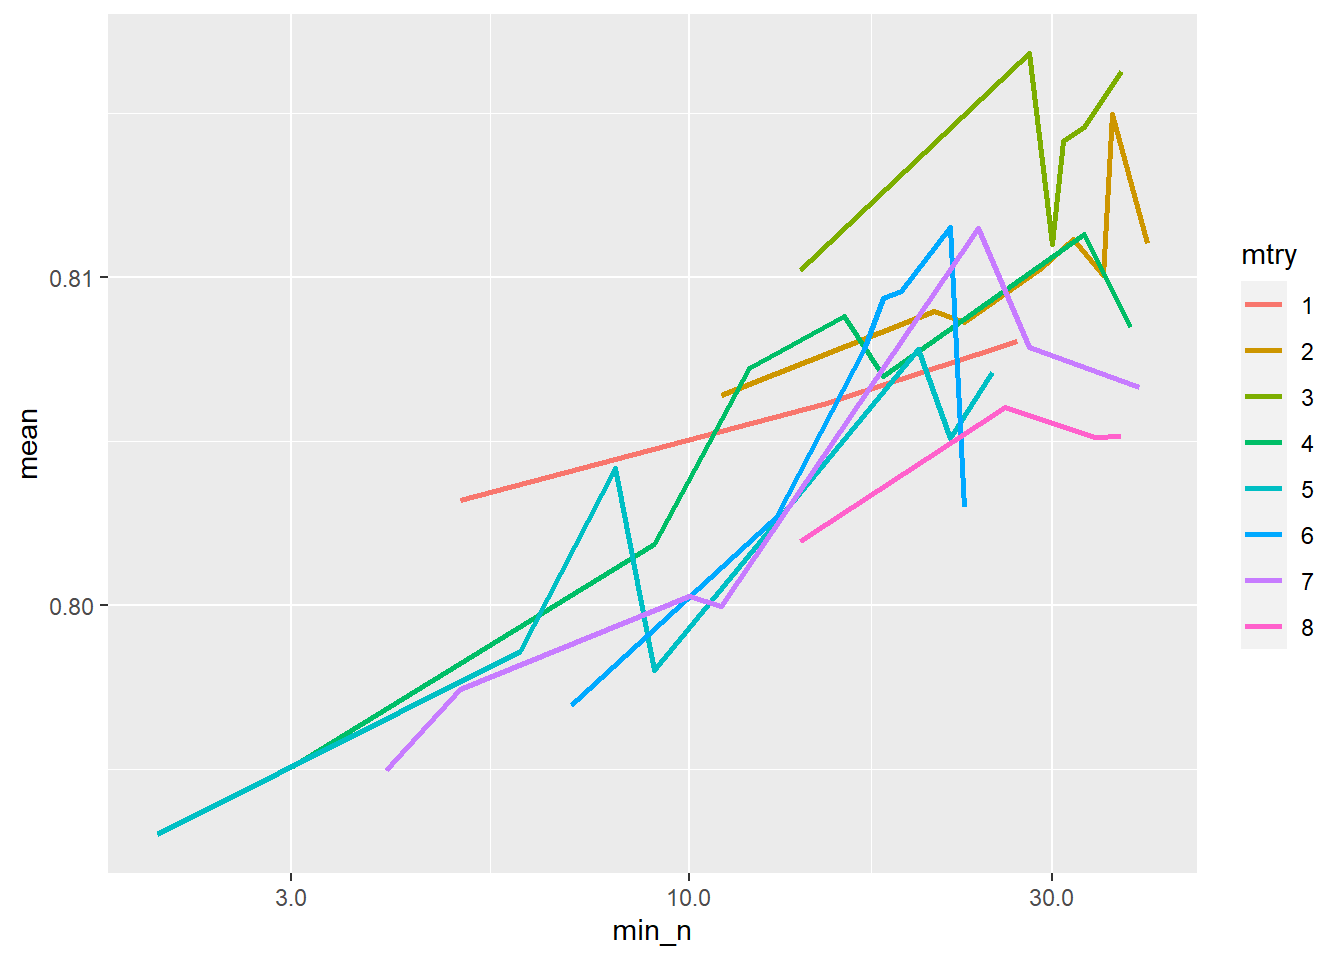
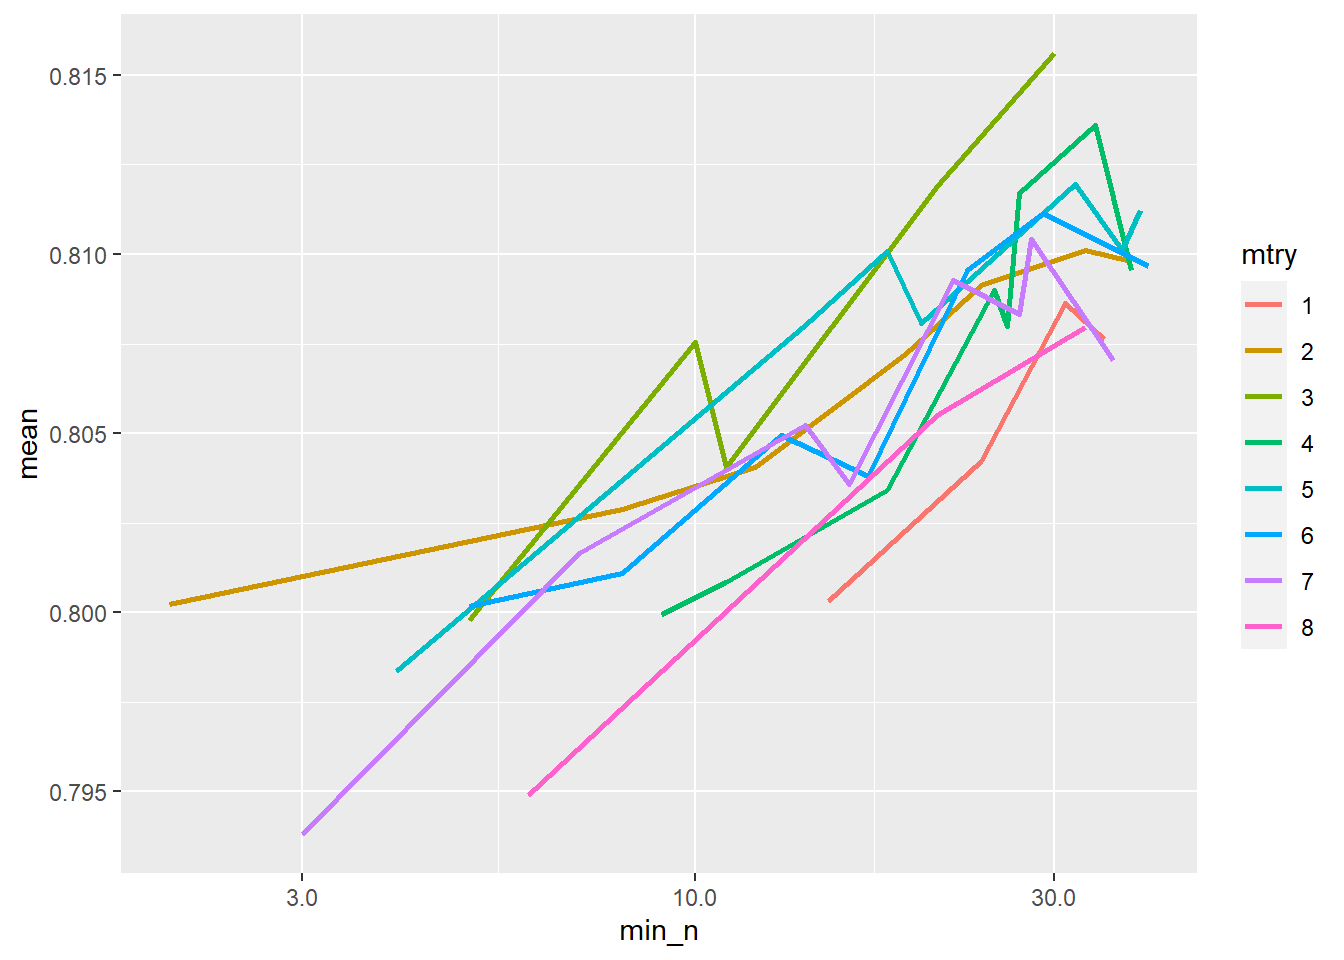
seed

diff --git a/content/post/2020-05-14-tidymodel.html b/content/post/2020-05-14-tidymodel.html
@@ -150,18 +150,18 @@ summary(gen_recipe)</code></pre>
   add_model(lr_mod) %&gt;% 
   add_recipe(gen_recipe)
 lr_wflow</code></pre>
-<pre><code>## == Workflow ======================================
+<pre><code>## == Workflow ==============================================================================================
 ## Preprocessor: Recipe
 ## Model: logistic_reg()
 ## 
-## -- Preprocessor ----------------------------------
+## -- Preprocessor ------------------------------------------------------------------------------------------
 ## 3 Recipe Steps
 ## 
 ## * step_dummy()
 ## * step_zv()
 ## * step_normalize()
 ## 
-## -- Model -----------------------------------------
+## -- Model -------------------------------------------------------------------------------------------------
 ## Logistic Regression Model Specification (classification)
 ## 
 ## Computational engine: glm</code></pre>
@@ -348,8 +348,9 @@ folds</code></pre>
 </div>
 <div id="step-5-調整參數" class="section level2">
 <h2>Step 5 調整參數</h2>
-<p>完成分割後，可將之前的建模流程串接至<code>tune_grid()</code>函數，這個函數可以設定參數調整的方法，首先是調整要用的<strong>參數調整組資料</strong><code>resamples = folds</code>，要測試幾組參數<code>grid = 50</code>，測試時要用什麼效能評估方式，這邊設定為Area under the ROC curve <code>metrics = metric_set(roc_auc)</code>。因為要重複訓練測試多次，因此這程式碼執行會需要一些時間。</p>
-<pre class="r"><code>rf_res &lt;- 
+<p>完成分割後，可將之前的建模流程串接至<code>tune_grid()</code>函數，這個函數可以設定參數調整的方法，首先是調整要用的<strong>參數調整組資料</strong><code>resamples = folds</code>，要測試幾組參數<code>grid = 50</code>，測試時要用什麼效能評估方式，這邊設定為Area under the ROC curve <code>metrics = metric_set(roc_auc)</code>。另外參數的產生也有隨機的成分，需要<code>set.seed()</code>。因為要重複訓練測試多次，因此這程式碼執行會需要一些時間。</p>
+<pre class="r"><code>set.seed(345)
+rf_res &lt;- 
   rf_wflow %&gt;% 
   tune_grid(
     resamples = folds,
@@ -363,16 +364,16 @@ folds</code></pre>
 <pre><code>## # A tibble: 49 x 7
 ##     mtry min_n .metric .estimator  mean     n std_err
 ##    &lt;int&gt; &lt;int&gt; &lt;chr&gt;   &lt;chr&gt;      &lt;dbl&gt; &lt;int&gt;   &lt;dbl&gt;
-##  1     1     5 roc_auc binary     0.803    10  0.0253
-##  2     1    15 roc_auc binary     0.806    10  0.0238
-##  3     1    27 roc_auc binary     0.808    10  0.0248
-##  4     2    11 roc_auc binary     0.806    10  0.0245
-##  5     2    21 roc_auc binary     0.809    10  0.0226
-##  6     2    23 roc_auc binary     0.809    10  0.0233
-##  7     2    29 roc_auc binary     0.810    10  0.0230
-##  8     2    32 roc_auc binary     0.811    10  0.0249
-##  9     2    35 roc_auc binary     0.810    10  0.0242
-## 10     2    36 roc_auc binary     0.815    10  0.0239
+##  1     1    15 roc_auc binary     0.800    10  0.0246
+##  2     1    24 roc_auc binary     0.804    10  0.0270
+##  3     1    31 roc_auc binary     0.809    10  0.0258
+##  4     1    35 roc_auc binary     0.808    10  0.0258
+##  5     2     2 roc_auc binary     0.800    10  0.0231
+##  6     2     8 roc_auc binary     0.803    10  0.0229
+##  7     2    12 roc_auc binary     0.804    10  0.0224
+##  8     2    19 roc_auc binary     0.807    10  0.0228
+##  9     2    24 roc_auc binary     0.809    10  0.0228
+## 10     2    33 roc_auc binary     0.810    10  0.0243
 ## # ... with 39 more rows</code></pre>
 <p>也可畫個圖呈現參數調整對效能的影響，由圖可知在這個範例中min_n越大效能越好</p>
 <pre class="r"><code>rf_res %&gt;%
@@ -388,11 +389,11 @@ folds</code></pre>
 <pre><code>## # A tibble: 5 x 7
 ##    mtry min_n .metric .estimator  mean     n std_err
 ##   &lt;int&gt; &lt;int&gt; &lt;chr&gt;   &lt;chr&gt;      &lt;dbl&gt; &lt;int&gt;   &lt;dbl&gt;
-## 1     3    28 roc_auc binary     0.817    10  0.0207
-## 2     3    37 roc_auc binary     0.816    10  0.0223
-## 3     2    36 roc_auc binary     0.815    10  0.0239
-## 4     3    33 roc_auc binary     0.815    10  0.0238
-## 5     3    31 roc_auc binary     0.814    10  0.0215</code></pre>
+## 1     3    30 roc_auc binary     0.816    10  0.0223
+## 2     4    34 roc_auc binary     0.814    10  0.0227
+## 3     5    32 roc_auc binary     0.812    10  0.0208
+## 4     3    21 roc_auc binary     0.812    10  0.0205
+## 5     4    27 roc_auc binary     0.812    10  0.0222</code></pre>
 </div>
 <div id="step-6-使用最佳參數與訓練組資料建立最終模型" class="section level2">
 <h2>Step 6 使用最佳參數與訓練組資料建立最終模型</h2>
@@ -403,31 +404,31 @@ best_rf</code></pre>
 <pre><code>## # A tibble: 1 x 2
 ##    mtry min_n
 ##   &lt;int&gt; &lt;int&gt;
-## 1     3    28</code></pre>
+## 1     3    30</code></pre>
 <p>為了將參數節合至原有的建模流程，可用<code>finalize_workflow()</code>函數輸入剛剛選出的最佳參數<code>best_rf</code>，建立一個<strong>最終建模流程</strong></p>
 <pre class="r"><code>final_wflow &lt;- 
   rf_wflow %&gt;% 
   finalize_workflow(best_rf)
 
 final_wflow</code></pre>
-<pre><code>## == Workflow ======================================
+<pre><code>## == Workflow ==============================================================================================
 ## Preprocessor: Recipe
 ## Model: rand_forest()
 ## 
-## -- Preprocessor ----------------------------------
+## -- Preprocessor ------------------------------------------------------------------------------------------
 ## 3 Recipe Steps
 ## 
 ## * step_dummy()
 ## * step_zv()
 ## * step_normalize()
 ## 
-## -- Model -----------------------------------------
+## -- Model -------------------------------------------------------------------------------------------------
 ## Random Forest Model Specification (classification)
 ## 
 ## Main Arguments:
 ##   mtry = 3
 ##   trees = 1000
-##   min_n = 28
+##   min_n = 30
 ## 
 ## Computational engine: ranger</code></pre>
 <p><strong>最終建模流程</strong>建立後，即可用<code>fit()</code>建模，注意這邊用的是完整的訓練資料<code>DM_train</code></p>
@@ -436,32 +437,32 @@ final_wflow</code></pre>
   fit(data = DM_train) 
 
 final_rf_model</code></pre>
-<pre><code>## == Workflow [trained] ============================
+<pre><code>## == Workflow [trained] ====================================================================================
 ## Preprocessor: Recipe
 ## Model: rand_forest()
 ## 
-## -- Preprocessor ----------------------------------
+## -- Preprocessor ------------------------------------------------------------------------------------------
 ## 3 Recipe Steps
 ## 
 ## * step_dummy()
 ## * step_zv()
 ## * step_normalize()
 ## 
-## -- Model -----------------------------------------
+## -- Model -------------------------------------------------------------------------------------------------
 ## Ranger result
 ## 
 ## Call:
-##  ranger::ranger(formula = formula, data = data, mtry = ~3L, num.trees = ~1000,      min.node.size = ~28L, num.threads = 1, verbose = FALSE, seed = sample.int(10^5,          1), probability = TRUE) 
+##  ranger::ranger(formula = formula, data = data, mtry = ~3L, num.trees = ~1000,      min.node.size = ~30L, num.threads = 1, verbose = FALSE, seed = sample.int(10^5,          1), probability = TRUE) 
 ## 
 ## Type:                             Probability estimation 
 ## Number of trees:                  1000 
 ## Sample size:                      295 
 ## Number of independent variables:  8 
 ## Mtry:                             3 
-## Target node size:                 28 
+## Target node size:                 30 
 ## Variable importance mode:         none 
 ## Splitrule:                        gini 
-## OOB prediction error (Brier s.):  0.1561583</code></pre>
+## OOB prediction error (Brier s.):  0.1573813</code></pre>
 </div>
 <div id="step-7-用測試組資料驗證最終模型效能" class="section level2">
 <h2>Step 7 用測試組資料驗證最終模型效能</h2>
@@ -519,16 +520,16 @@ rf_pred</code></pre>
 <pre><code>## # A tibble: 97 x 3
 ##    .pred_neg .pred_pos diabetes
 ##        &lt;dbl&gt;     &lt;dbl&gt; &lt;fct&gt;   
-##  1     0.377    0.623  pos     
-##  2     0.507    0.493  pos     
-##  3     0.657    0.343  neg     
-##  4     0.153    0.847  pos     
-##  5     0.102    0.898  pos     
-##  6     0.181    0.819  pos     
-##  7     0.867    0.133  neg     
-##  8     0.953    0.0471 neg     
-##  9     0.797    0.203  neg     
-## 10     0.634    0.366  neg     
+##  1     0.361    0.639  pos     
+##  2     0.526    0.474  pos     
+##  3     0.662    0.338  neg     
+##  4     0.177    0.823  pos     
+##  5     0.130    0.870  pos     
+##  6     0.191    0.809  pos     
+##  7     0.860    0.140  neg     
+##  8     0.956    0.0441 neg     
+##  9     0.793    0.207  neg     
+## 10     0.638    0.362  neg     
 ## # ... with 87 more rows</code></pre>
 <p>得到各組預測值後，可用<code>roc_curve()</code>畫ROC curve</p>
 <pre class="r"><code>rf_pred %&gt;% 

diff --git a/public/post/tidymodel/index.html b/public/post/tidymodel/index.html
@@ -224,18 +224,18 @@ summary(gen_recipe)</code></pre>
   add_model(lr_mod) %&gt;% 
   add_recipe(gen_recipe)
 lr_wflow</code></pre>
-<pre><code>## == Workflow ======================================
+<pre><code>## == Workflow ==============================================================================================
 ## Preprocessor: Recipe
 ## Model: logistic_reg()
 ## 
-## -- Preprocessor ----------------------------------
+## -- Preprocessor ------------------------------------------------------------------------------------------
 ## 3 Recipe Steps
 ## 
 ## * step_dummy()
 ## * step_zv()
 ## * step_normalize()
 ## 
-## -- Model -----------------------------------------
+## -- Model -------------------------------------------------------------------------------------------------
 ## Logistic Regression Model Specification (classification)
 ## 
 ## Computational engine: glm</code></pre>
@@ -422,8 +422,9 @@ folds</code></pre>
 </div>
 <div id="step-5-調整參數" class="section level2">
 <h2>Step 5 調整參數</h2>
-<p>完成分割後，可將之前的建模流程串接至<code>tune_grid()</code>函數，這個函數可以設定參數調整的方法，首先是調整要用的<strong>參數調整組資料</strong><code>resamples = folds</code>，要測試幾組參數<code>grid = 50</code>，測試時要用什麼效能評估方式，這邊設定為Area under the ROC curve <code>metrics = metric_set(roc_auc)</code>。因為要重複訓練測試多次，因此這程式碼執行會需要一些時間。</p>
-<pre class="r"><code>rf_res &lt;- 
+<p>完成分割後，可將之前的建模流程串接至<code>tune_grid()</code>函數，這個函數可以設定參數調整的方法，首先是調整要用的<strong>參數調整組資料</strong><code>resamples = folds</code>，要測試幾組參數<code>grid = 50</code>，測試時要用什麼效能評估方式，這邊設定為Area under the ROC curve <code>metrics = metric_set(roc_auc)</code>。另外參數的產生也有隨機的成分，需要<code>set.seed()</code>。因為要重複訓練測試多次，因此這程式碼執行會需要一些時間。</p>
+<pre class="r"><code>set.seed(345)
+rf_res &lt;- 
   rf_wflow %&gt;% 
   tune_grid(
     resamples = folds,
@@ -437,16 +438,16 @@ folds</code></pre>
 <pre><code>## # A tibble: 49 x 7
 ##     mtry min_n .metric .estimator  mean     n std_err
 ##    &lt;int&gt; &lt;int&gt; &lt;chr&gt;   &lt;chr&gt;      &lt;dbl&gt; &lt;int&gt;   &lt;dbl&gt;
-##  1     1     5 roc_auc binary     0.803    10  0.0253
-##  2     1    15 roc_auc binary     0.806    10  0.0238
-##  3     1    27 roc_auc binary     0.808    10  0.0248
-##  4     2    11 roc_auc binary     0.806    10  0.0245
-##  5     2    21 roc_auc binary     0.809    10  0.0226
-##  6     2    23 roc_auc binary     0.809    10  0.0233
-##  7     2    29 roc_auc binary     0.810    10  0.0230
-##  8     2    32 roc_auc binary     0.811    10  0.0249
-##  9     2    35 roc_auc binary     0.810    10  0.0242
-## 10     2    36 roc_auc binary     0.815    10  0.0239
+##  1     1    15 roc_auc binary     0.800    10  0.0246
+##  2     1    24 roc_auc binary     0.804    10  0.0270
+##  3     1    31 roc_auc binary     0.809    10  0.0258
+##  4     1    35 roc_auc binary     0.808    10  0.0258
+##  5     2     2 roc_auc binary     0.800    10  0.0231
+##  6     2     8 roc_auc binary     0.803    10  0.0229
+##  7     2    12 roc_auc binary     0.804    10  0.0224
+##  8     2    19 roc_auc binary     0.807    10  0.0228
+##  9     2    24 roc_auc binary     0.809    10  0.0228
+## 10     2    33 roc_auc binary     0.810    10  0.0243
 ## # ... with 39 more rows</code></pre>
 <p>也可畫個圖呈現參數調整對效能的影響，由圖可知在這個範例中min_n越大效能越好</p>
 <pre class="r"><code>rf_res %&gt;%
@@ -462,11 +463,11 @@ folds</code></pre>
 <pre><code>## # A tibble: 5 x 7
 ##    mtry min_n .metric .estimator  mean     n std_err
 ##   &lt;int&gt; &lt;int&gt; &lt;chr&gt;   &lt;chr&gt;      &lt;dbl&gt; &lt;int&gt;   &lt;dbl&gt;
-## 1     3    28 roc_auc binary     0.817    10  0.0207
-## 2     3    37 roc_auc binary     0.816    10  0.0223
-## 3     2    36 roc_auc binary     0.815    10  0.0239
-## 4     3    33 roc_auc binary     0.815    10  0.0238
-## 5     3    31 roc_auc binary     0.814    10  0.0215</code></pre>
+## 1     3    30 roc_auc binary     0.816    10  0.0223
+## 2     4    34 roc_auc binary     0.814    10  0.0227
+## 3     5    32 roc_auc binary     0.812    10  0.0208
+## 4     3    21 roc_auc binary     0.812    10  0.0205
+## 5     4    27 roc_auc binary     0.812    10  0.0222</code></pre>
 </div>
 <div id="step-6-使用最佳參數與訓練組資料建立最終模型" class="section level2">
 <h2>Step 6 使用最佳參數與訓練組資料建立最終模型</h2>
@@ -477,31 +478,31 @@ best_rf</code></pre>
 <pre><code>## # A tibble: 1 x 2
 ##    mtry min_n
 ##   &lt;int&gt; &lt;int&gt;
-## 1     3    28</code></pre>
+## 1     3    30</code></pre>
 <p>為了將參數節合至原有的建模流程，可用<code>finalize_workflow()</code>函數輸入剛剛選出的最佳參數<code>best_rf</code>，建立一個<strong>最終建模流程</strong></p>
 <pre class="r"><code>final_wflow &lt;- 
   rf_wflow %&gt;% 
   finalize_workflow(best_rf)
 
 final_wflow</code></pre>
-<pre><code>## == Workflow ======================================
+<pre><code>## == Workflow ==============================================================================================
 ## Preprocessor: Recipe
 ## Model: rand_forest()
 ## 
-## -- Preprocessor ----------------------------------
+## -- Preprocessor ------------------------------------------------------------------------------------------
 ## 3 Recipe Steps
 ## 
 ## * step_dummy()
 ## * step_zv()
 ## * step_normalize()
 ## 
-## -- Model -----------------------------------------
+## -- Model -------------------------------------------------------------------------------------------------
 ## Random Forest Model Specification (classification)
 ## 
 ## Main Arguments:
 ##   mtry = 3
 ##   trees = 1000
-##   min_n = 28
+##   min_n = 30
 ## 
 ## Computational engine: ranger</code></pre>
 <p><strong>最終建模流程</strong>建立後，即可用<code>fit()</code>建模，注意這邊用的是完整的訓練資料<code>DM_train</code></p>
@@ -510,32 +511,32 @@ final_wflow</code></pre>
   fit(data = DM_train) 
 
 final_rf_model</code></pre>
-<pre><code>## == Workflow [trained] ============================
+<pre><code>## == Workflow [trained] ====================================================================================
 ## Preprocessor: Recipe
 ## Model: rand_forest()
 ## 
-## -- Preprocessor ----------------------------------
+## -- Preprocessor ------------------------------------------------------------------------------------------
 ## 3 Recipe Steps
 ## 
 ## * step_dummy()
 ## * step_zv()
 ## * step_normalize()
 ## 
-## -- Model -----------------------------------------
+## -- Model -------------------------------------------------------------------------------------------------
 ## Ranger result
 ## 
 ## Call:
-##  ranger::ranger(formula = formula, data = data, mtry = ~3L, num.trees = ~1000,      min.node.size = ~28L, num.threads = 1, verbose = FALSE, seed = sample.int(10^5,          1), probability = TRUE) 
+##  ranger::ranger(formula = formula, data = data, mtry = ~3L, num.trees = ~1000,      min.node.size = ~30L, num.threads = 1, verbose = FALSE, seed = sample.int(10^5,          1), probability = TRUE) 
 ## 
 ## Type:                             Probability estimation 
 ## Number of trees:                  1000 
 ## Sample size:                      295 
 ## Number of independent variables:  8 
 ## Mtry:                             3 
-## Target node size:                 28 
+## Target node size:                 30 
 ## Variable importance mode:         none 
 ## Splitrule:                        gini 
-## OOB prediction error (Brier s.):  0.1561583</code></pre>
+## OOB prediction error (Brier s.):  0.1573813</code></pre>
 </div>
 <div id="step-7-用測試組資料驗證最終模型效能" class="section level2">
 <h2>Step 7 用測試組資料驗證最終模型效能</h2>
@@ -593,16 +594,16 @@ rf_pred</code></pre>
 <pre><code>## # A tibble: 97 x 3
 ##    .pred_neg .pred_pos diabetes
 ##        &lt;dbl&gt;     &lt;dbl&gt; &lt;fct&gt;   
-##  1     0.377    0.623  pos     
-##  2     0.507    0.493  pos     
-##  3     0.657    0.343  neg     
-##  4     0.153    0.847  pos     
-##  5     0.102    0.898  pos     
-##  6     0.181    0.819  pos     
-##  7     0.867    0.133  neg     
-##  8     0.953    0.0471 neg     
-##  9     0.797    0.203  neg     
-## 10     0.634    0.366  neg     
+##  1     0.361    0.639  pos     
+##  2     0.526    0.474  pos     
+##  3     0.662    0.338  neg     
+##  4     0.177    0.823  pos     
+##  5     0.130    0.870  pos     
+##  6     0.191    0.809  pos     
+##  7     0.860    0.140  neg     
+##  8     0.956    0.0441 neg     
+##  9     0.793    0.207  neg     
+## 10     0.638    0.362  neg     
 ## # ... with 87 more rows</code></pre>
 <p>得到各組預測值後，可用<code>roc_curve()</code>畫ROC curve</p>
 <pre class="r"><code>rf_pred %&gt;% 
